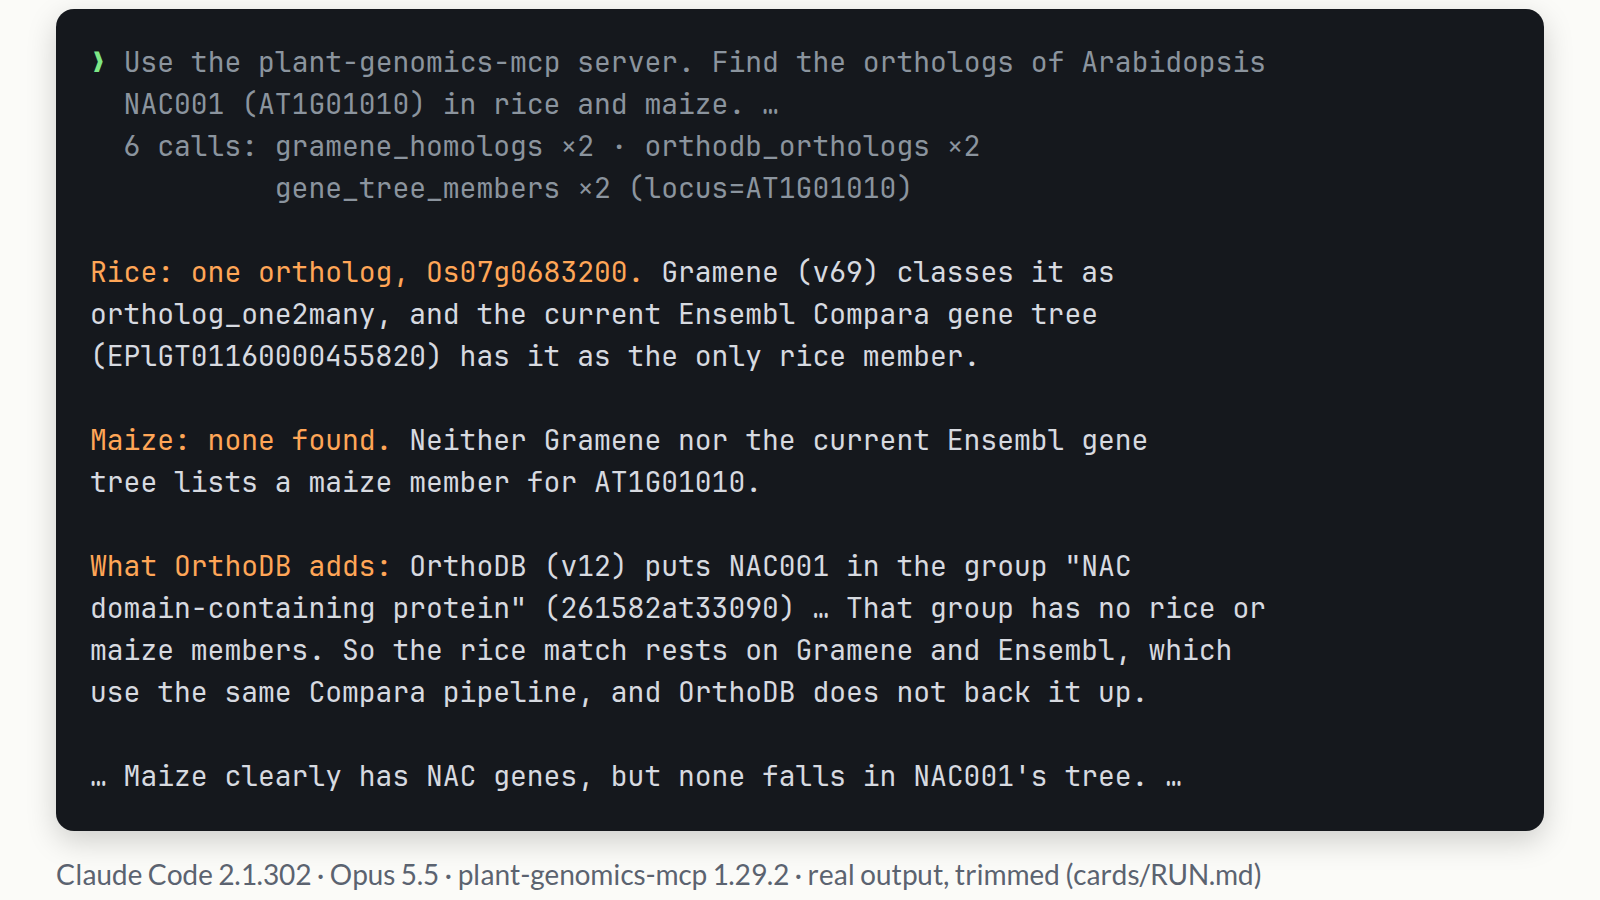
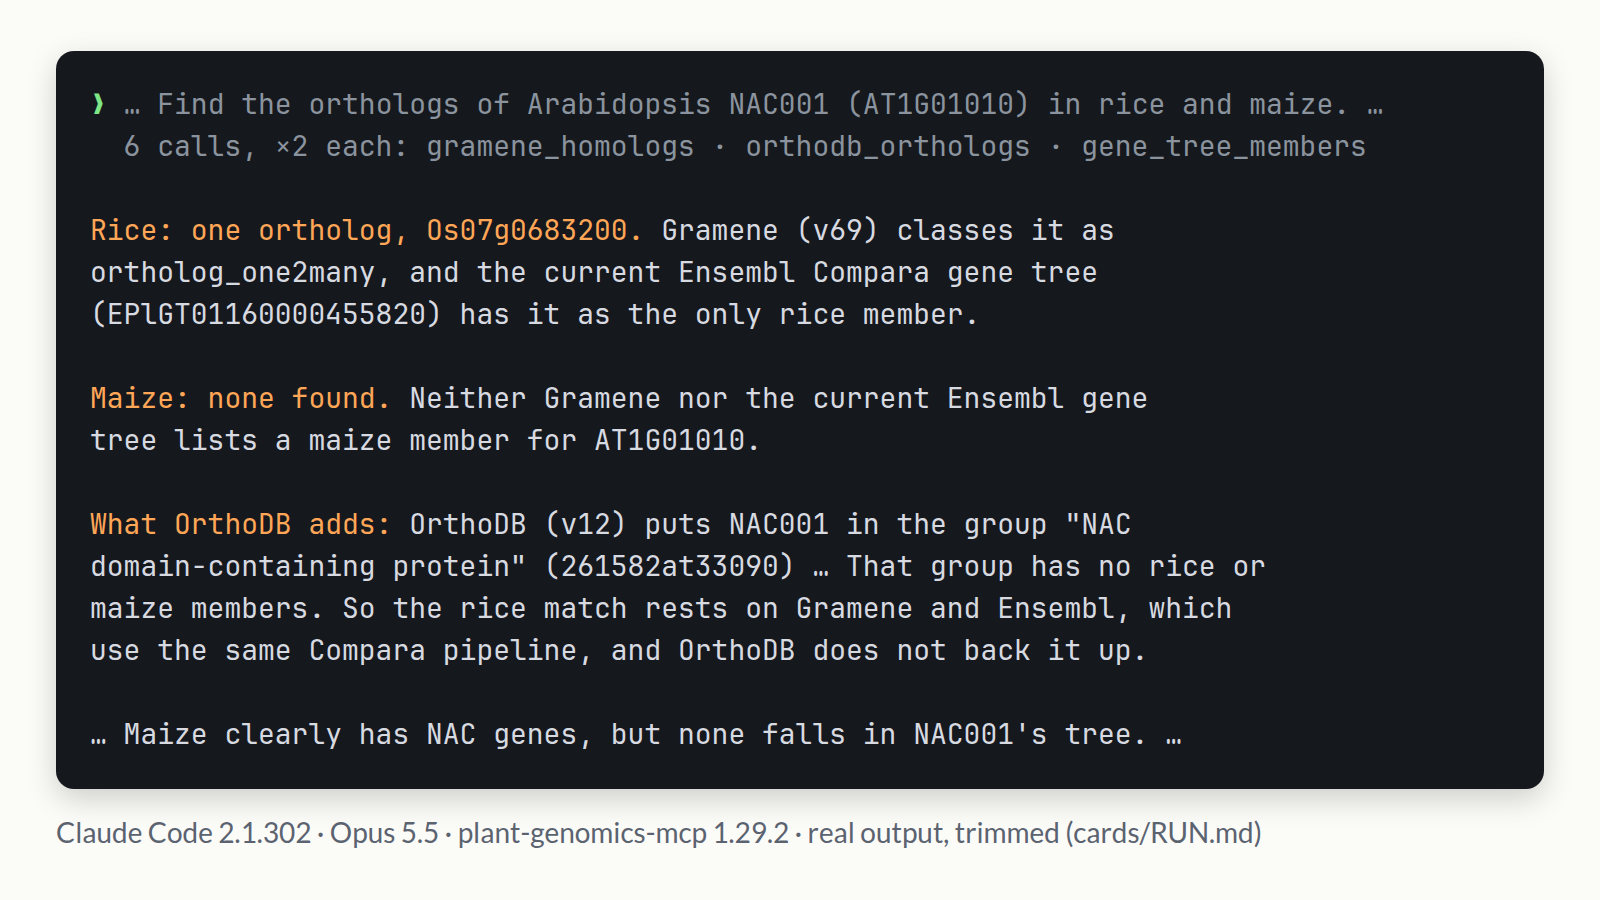
docs(cards): fit the font inside a 48 px frame, not to the canvas edge

Changed region(s): [[0.0312, 0.4356, 0.9688, 0.9956], [0.0625, 0.1556, 0.8438, 0.4044], [0.0312, 0.0, 0.9688, 0.1244]]

diff --git a/examples/assets/cards/orthologs.html b/examples/assets/cards/orthologs.html
@@ -9,10 +9,8 @@ pre{margin:10px 0 0;font:28px/1.5 "JetBrainsMono Nerd Font Mono","DejaVu Sans Mo
 </style>
 <div class=wrap>
 <div class=term>
-<pre><span class=p>❯</span> <span class=dim>Use the plant-genomics-mcp server. Find the orthologs of Arabidopsis
-  NAC001 (AT1G01010) in rice and maize. …</span>
-<span class=dim>  6 calls: gramene_homologs ×2 · orthodb_orthologs ×2
-           gene_tree_members ×2 (locus=AT1G01010)</span>
+<pre><span class=p>❯</span> <span class=dim>… Find the orthologs of Arabidopsis NAC001 (AT1G01010) in rice and maize. …</span>
+<span class=dim>  6 calls, ×2 each: gramene_homologs · orthodb_orthologs · gene_tree_members</span>
 
 <span class=hl>Rice: one ortholog, Os07g0683200.</span> Gramene (v69) classes it as
 ortholog_one2many, and the current Ensembl Compara gene tree

diff --git a/examples/assets/cards/render.py b/examples/assets/cards/render.py
@@ -42,8 +42,14 @@ def settle(page, src: Path) -> None:
     cdp.detach()
 
 
-FITS = """(()=>{const e=document.querySelector('pre'), w=document.querySelector('.wrap');
-  return e.scrollWidth<=e.clientWidth && w.scrollHeight<=w.clientHeight})()"""
+# Fits = no line overflows its box, and the card plus caption leave MARGIN px
+# of canvas above and below. Without the margin a card whose height binds
+# before its width grew its font until it touched the canvas edges (5 px).
+MARGIN = 48
+FITS = f"""(()=>{{const e=document.querySelector('pre'),
+  t=document.querySelector('.term').getBoundingClientRect(),
+  c=document.querySelector('.cap').getBoundingClientRect();
+  return e.scrollWidth<=e.clientWidth && t.top>={MARGIN} && innerHeight-c.bottom>={MARGIN}}})()"""
 
 with sync_playwright() as p:
     browser = p.chromium.launch(args=["--disable-gpu", "--use-angle=swiftshader"])
